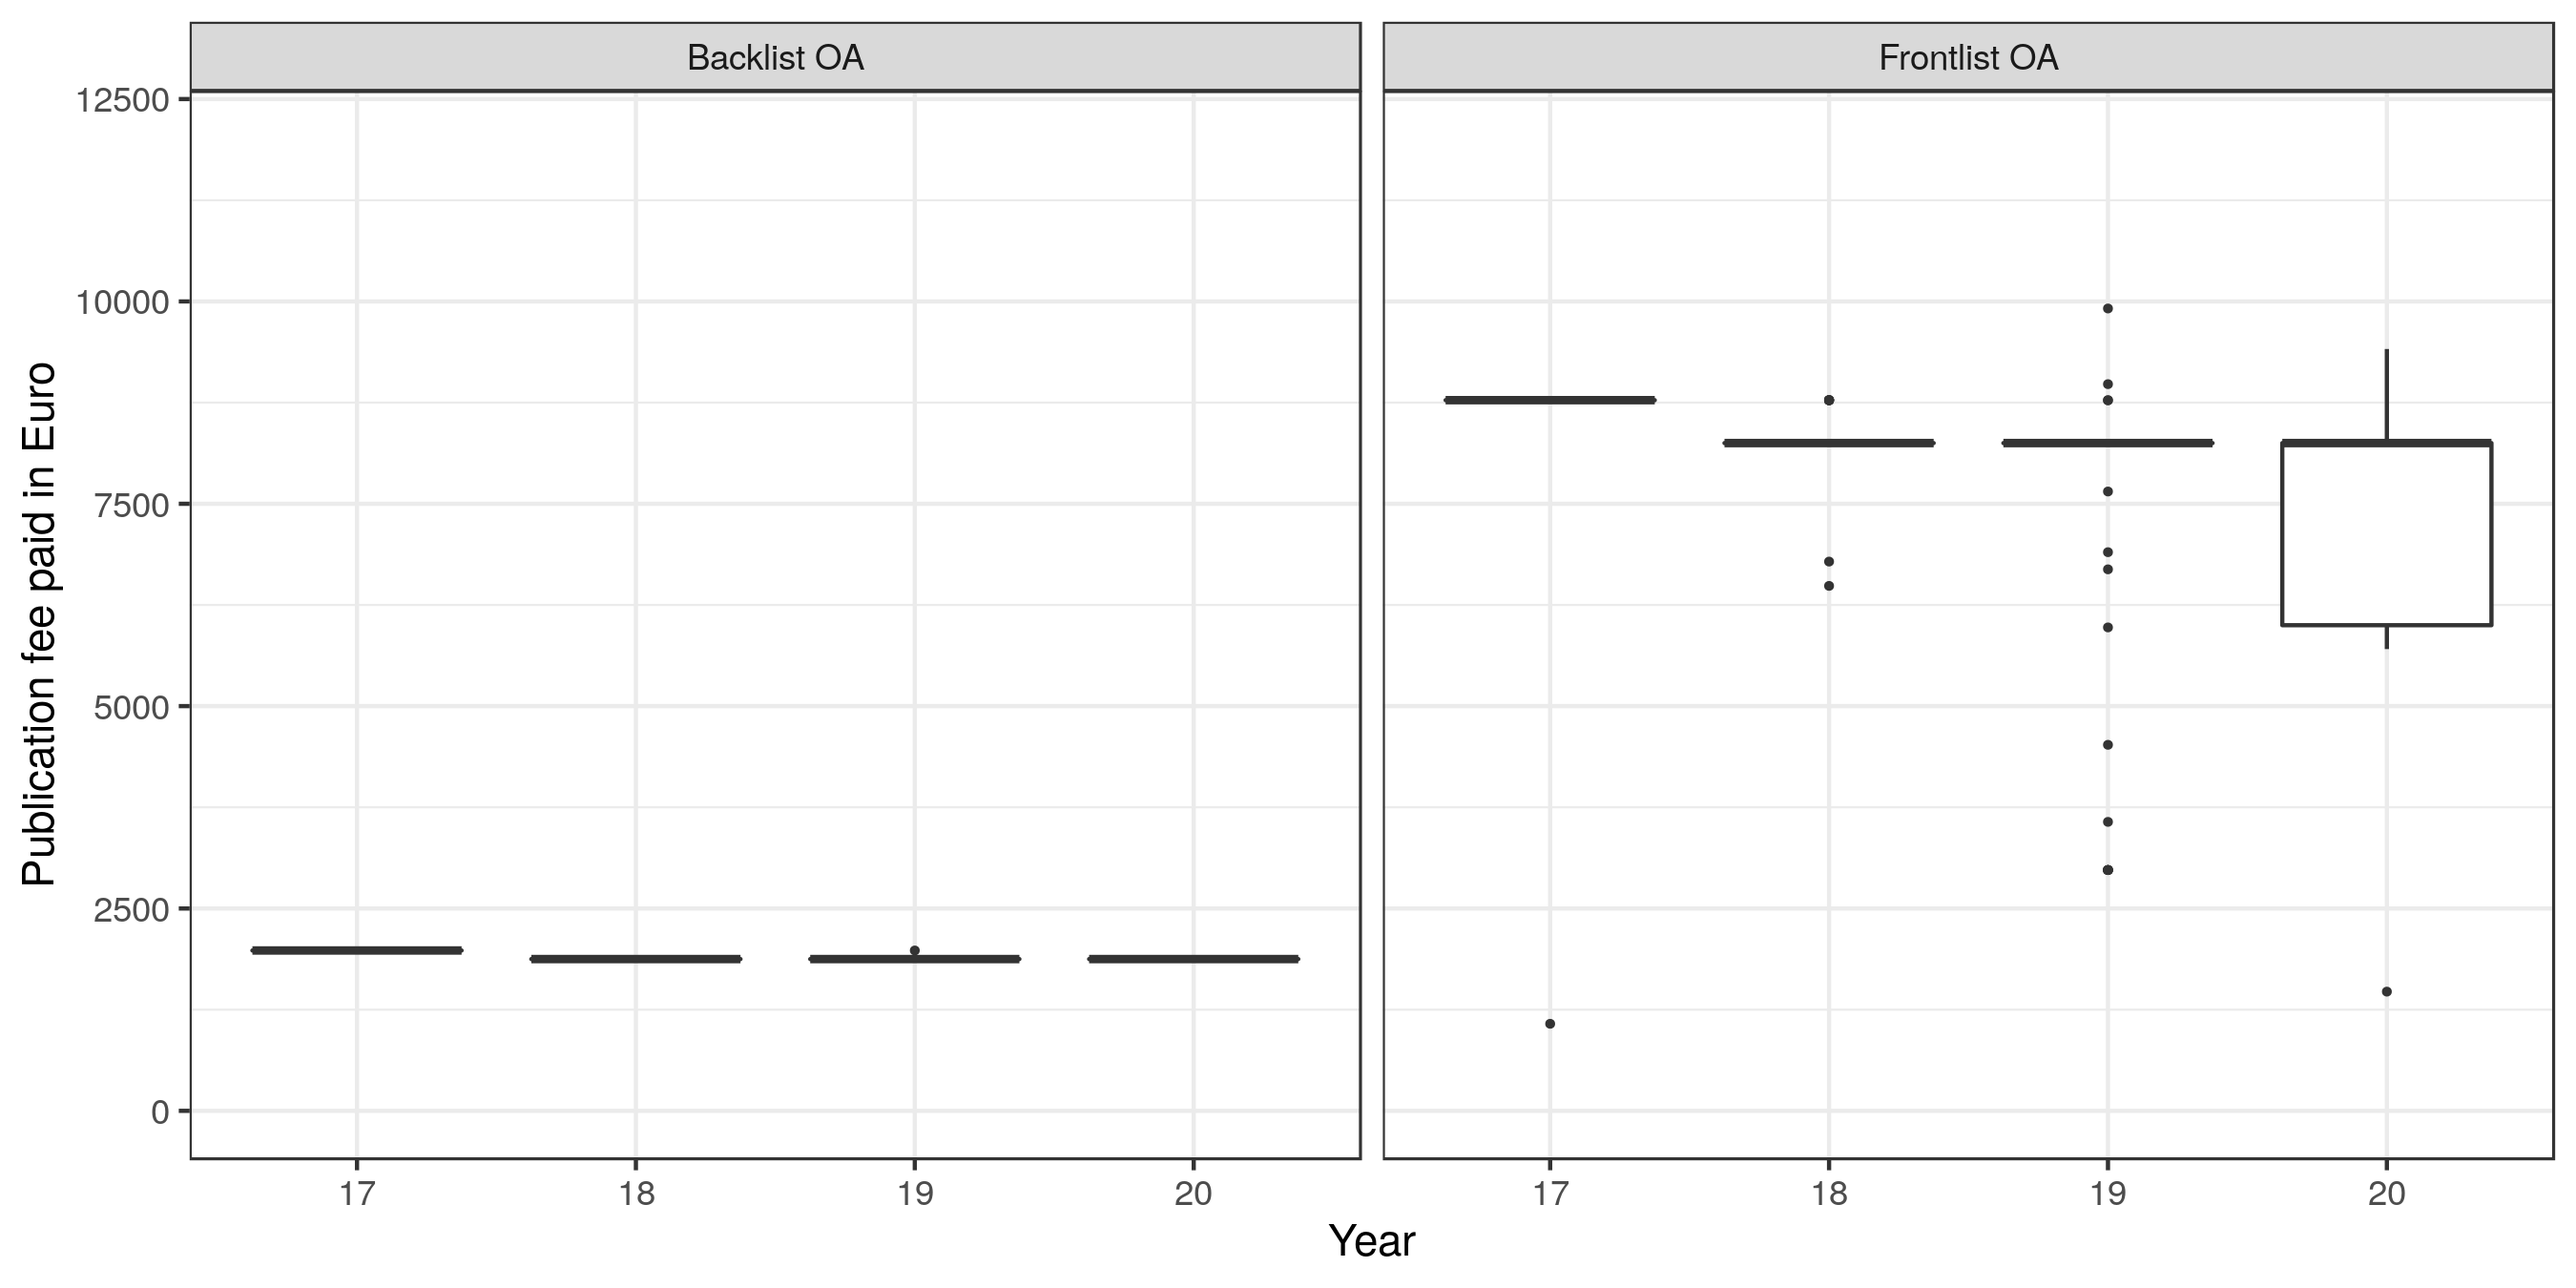
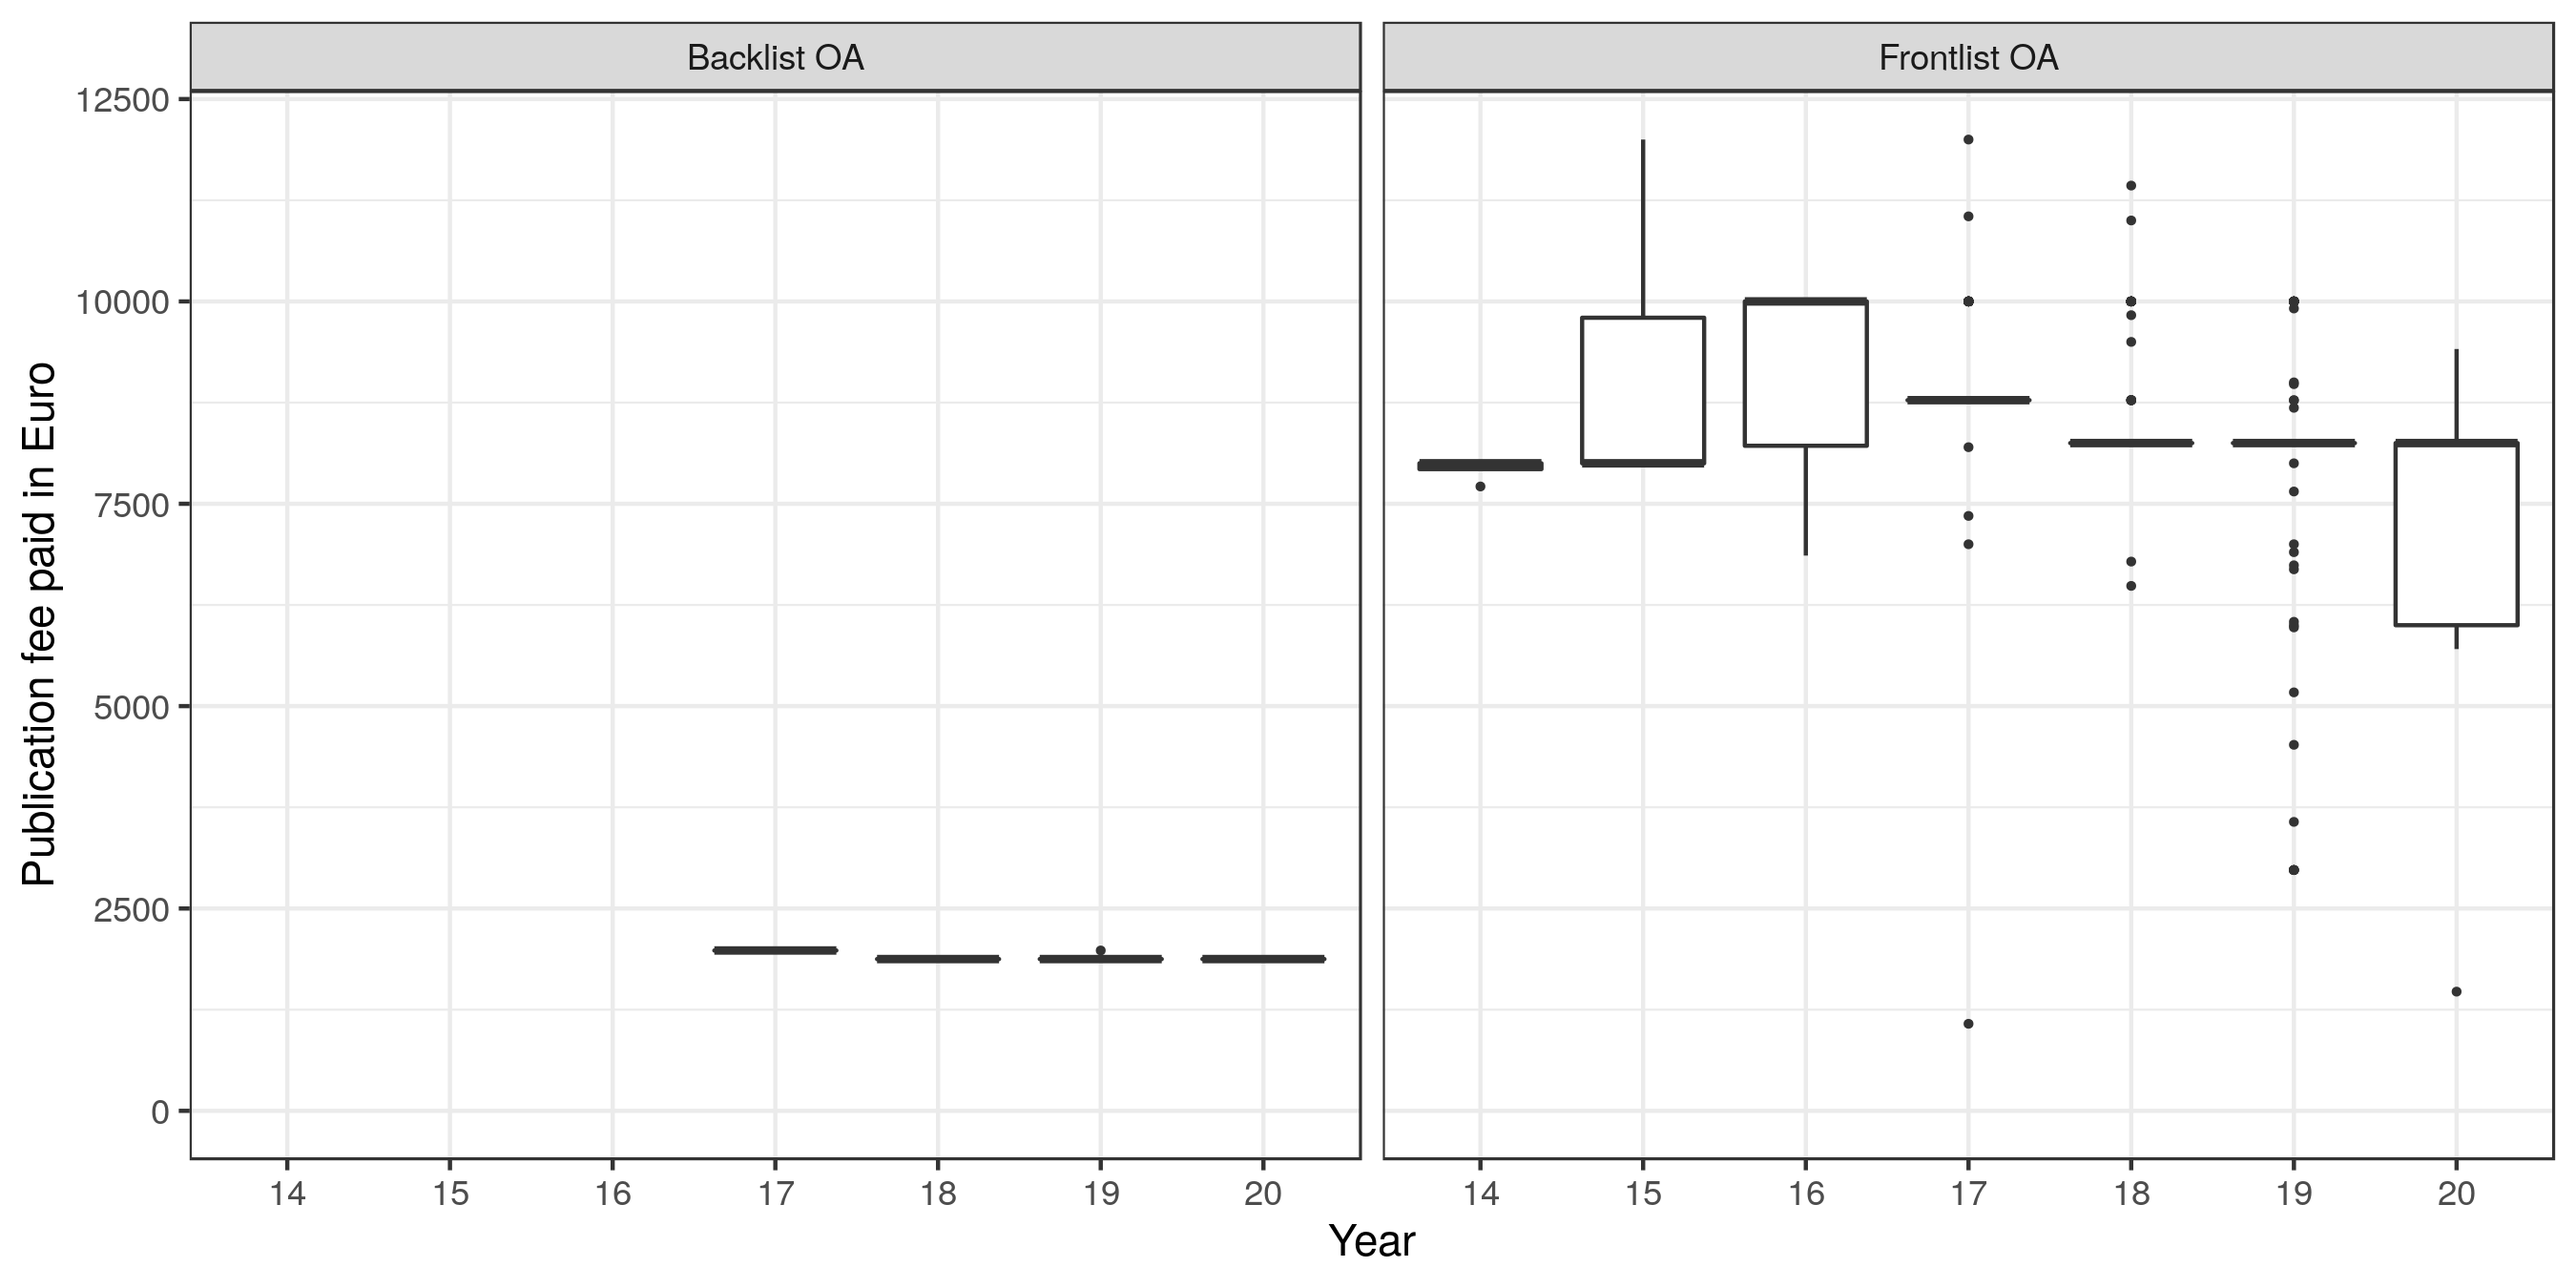
data added to collection

diff --git a/README.md b/README.md
@@ -17,7 +17,7 @@ At the moment this project provides the following cost data:
 | Publication Type | Count           | Aggregated Sum (€)      | Contributing Institutions              |
 |------------------|-----------------|-------------------------|----------------------------------------|
 | Articles         |113,647 | 222,955,243    | 272 |
-| Monographs       |950 | 4,177,963    | 4 |
+| Monographs       |1,200 | 7,476,991    | 5 |
 
 [![Build Status](https://travis-ci.org/OpenAPC/openapc-de.svg?branch=master)](https://travis-ci.org/OpenAPC/openapc-de)&nbsp;&nbsp;([What's this?](https://github.com/OpenAPC/openapc-de/wiki/Data-Integrity-Testing))
 
@@ -434,9 +434,9 @@ Hybrid open access journals rely on both publication fees and subscriptions as r
 
 ### Books (BPCs)
 
-The book data set contains information on 950 open access books. Publication fees were supported financially by 4 research performing institutions and funders. 
+The book data set contains information on 1,200 open access books. Publication fees were supported financially by 5 research performing institutions and funders. 
 
-In total, book processing charges covered by the OpenAPC initiative amounted to € 4,177,963. The average payment was € 4,398 and the median was € 1,981.
+In total, book processing charges covered by the OpenAPC initiative amounted to € 7,476,991. The average payment was € 6,231 and the median was € 6,763.
 
 Books can be made Open Access right from the beginning ("frontlist") or only retroactively after having been published traditionally in the first place ("backlist"), which can have a big influence on the paid BPCs.
 
@@ -451,9 +451,12 @@ Books can be made Open Access right from the beginning ("frontlist") or only ret
 
 |period | Frontlist books| mean BPC| median BPC|  BPC min - max| Backlist books| mean BPC| median BPC| BPC min - max|
 |:------|---------------:|--------:|----------:|--------------:|--------------:|--------:|----------:|-------------:|
-|2017   |             142|    8,726|      8,780| 1,075 -  8,780|            195|    1,981|      1,981| 1,981 - 1,981|
-|2018   |             107|    8,245|      8,250| 6,486 -  8,780|            191|    1,875|      1,875| 1,875 - 1,875|
-|2019   |             107|    7,964|      8,250| 2,975 - 14,813|            194|    1,876|      1,875| 1,875 - 1,981|
+|2014   |              61|   15,263|     16,000| 7,714 - 20,000|             NA|       NA|         NA|            NA|
+|2015   |              48|   14,370|     14,000| 8,000 - 20,000|             NA|       NA|         NA|            NA|
+|2016   |              38|   13,517|     14,000| 6,860 - 22,000|             NA|       NA|         NA|            NA|
+|2017   |             183|    9,294|      8,780| 1,075 - 21,000|            195|    1,981|      1,981| 1,981 - 1,981|
+|2018   |             141|    9,125|      8,250| 6,486 - 18,000|            191|    1,875|      1,875| 1,875 - 1,875|
+|2019   |             135|    8,523|      8,250| 2,975 - 22,000|            194|    1,876|      1,875| 1,875 - 1,981|
 |2020   |              13|    7,261|      8,250| 1,473 -  9,413|              1|    1,875|      1,875| 1,875 - 1,875|
 
 
